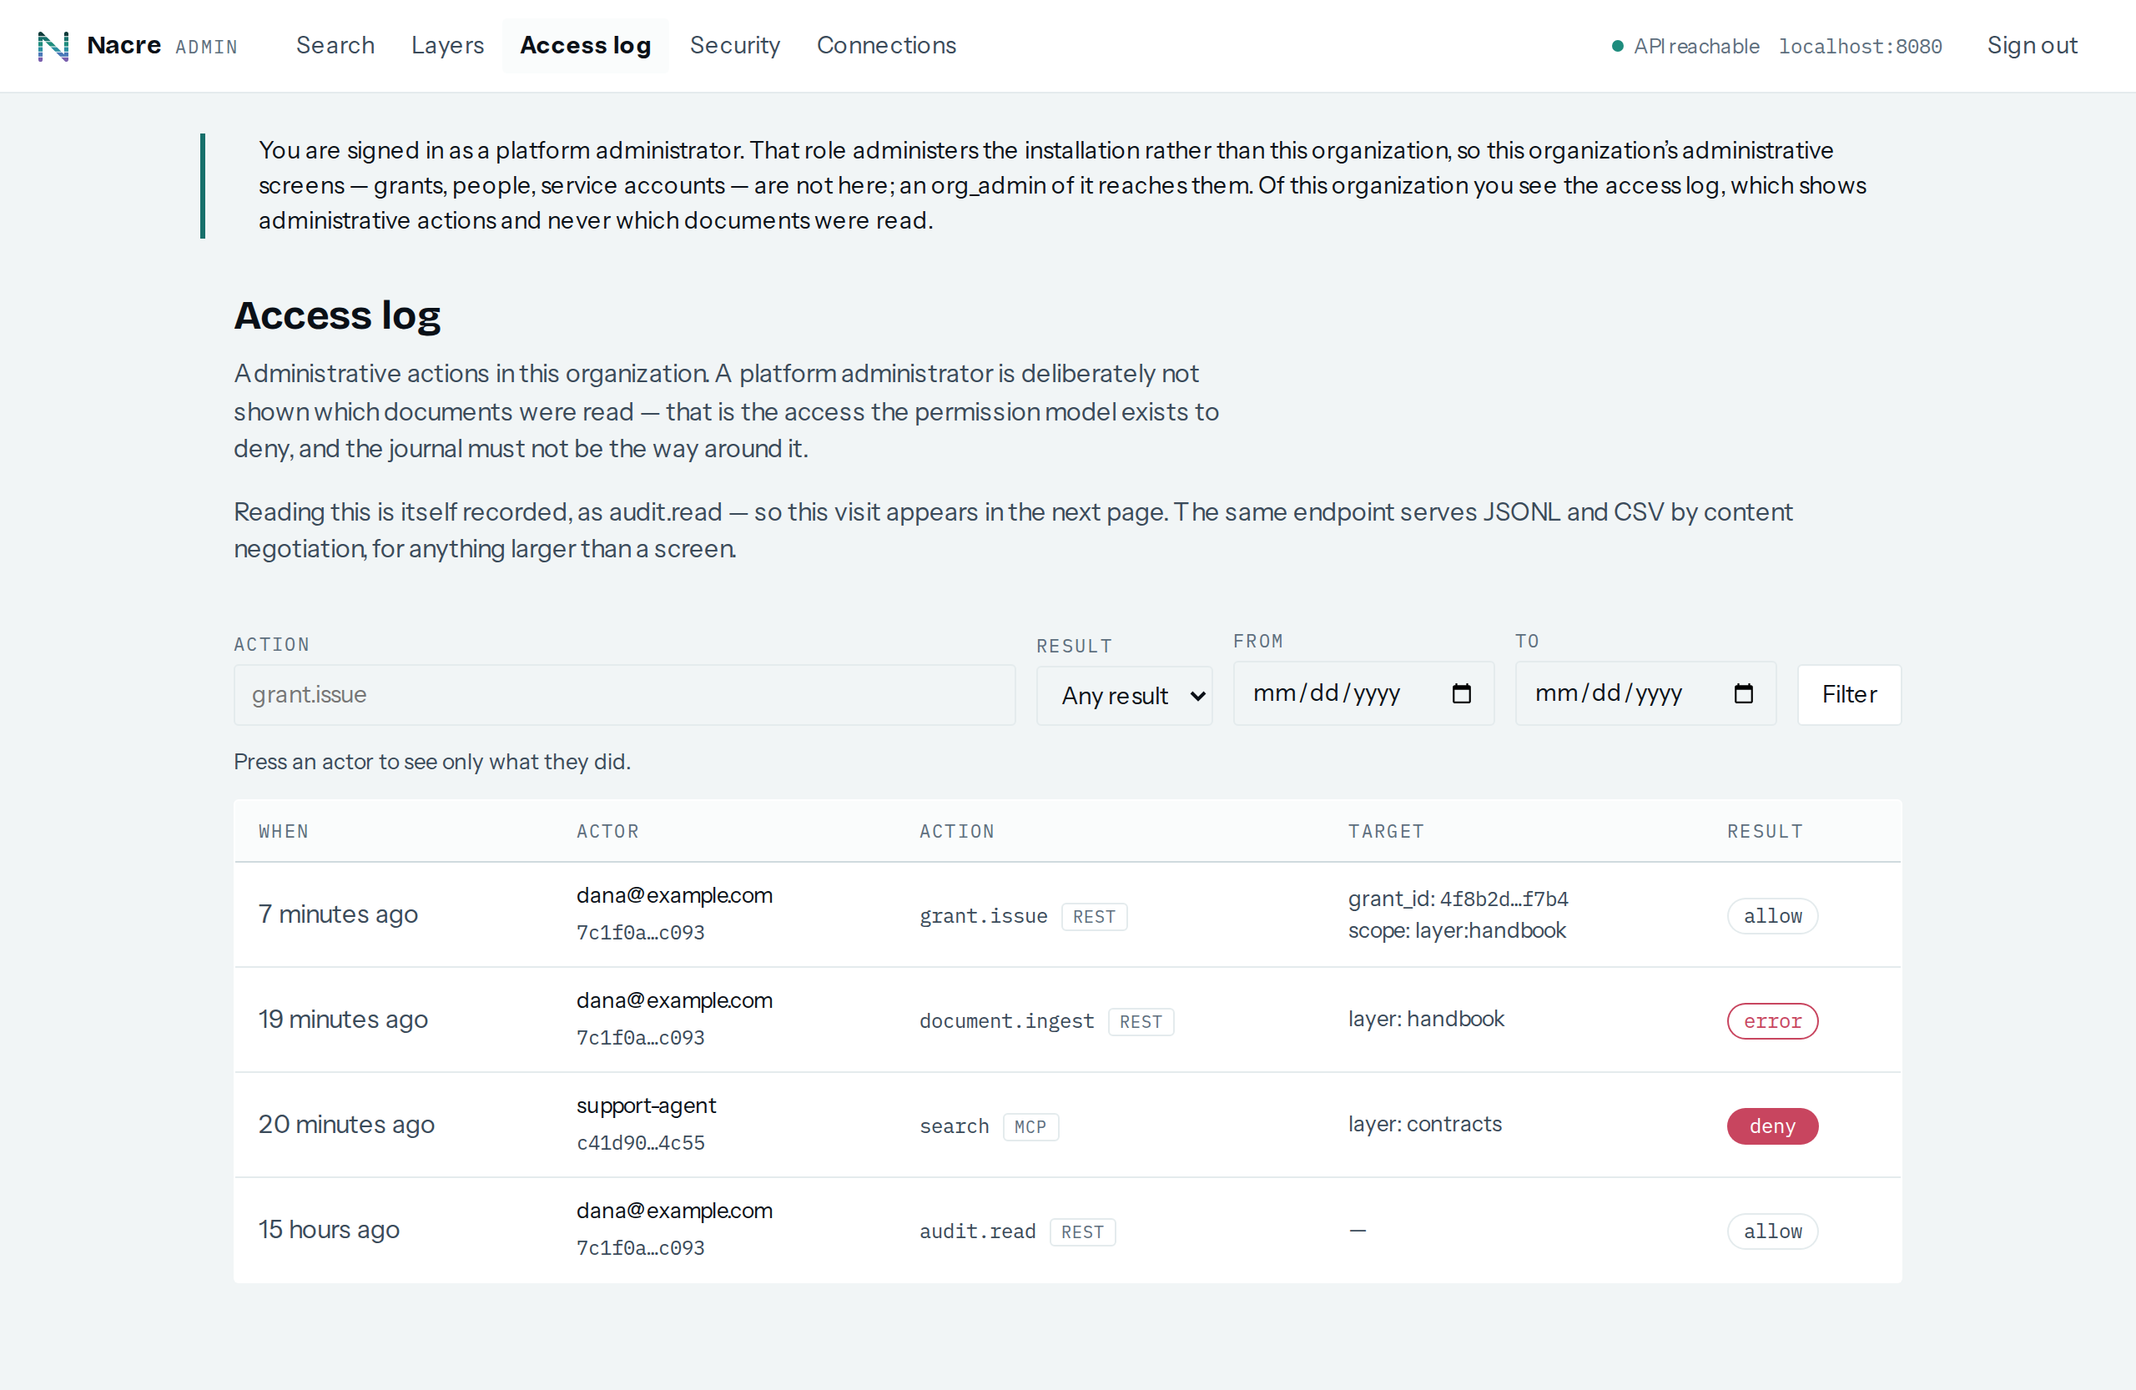
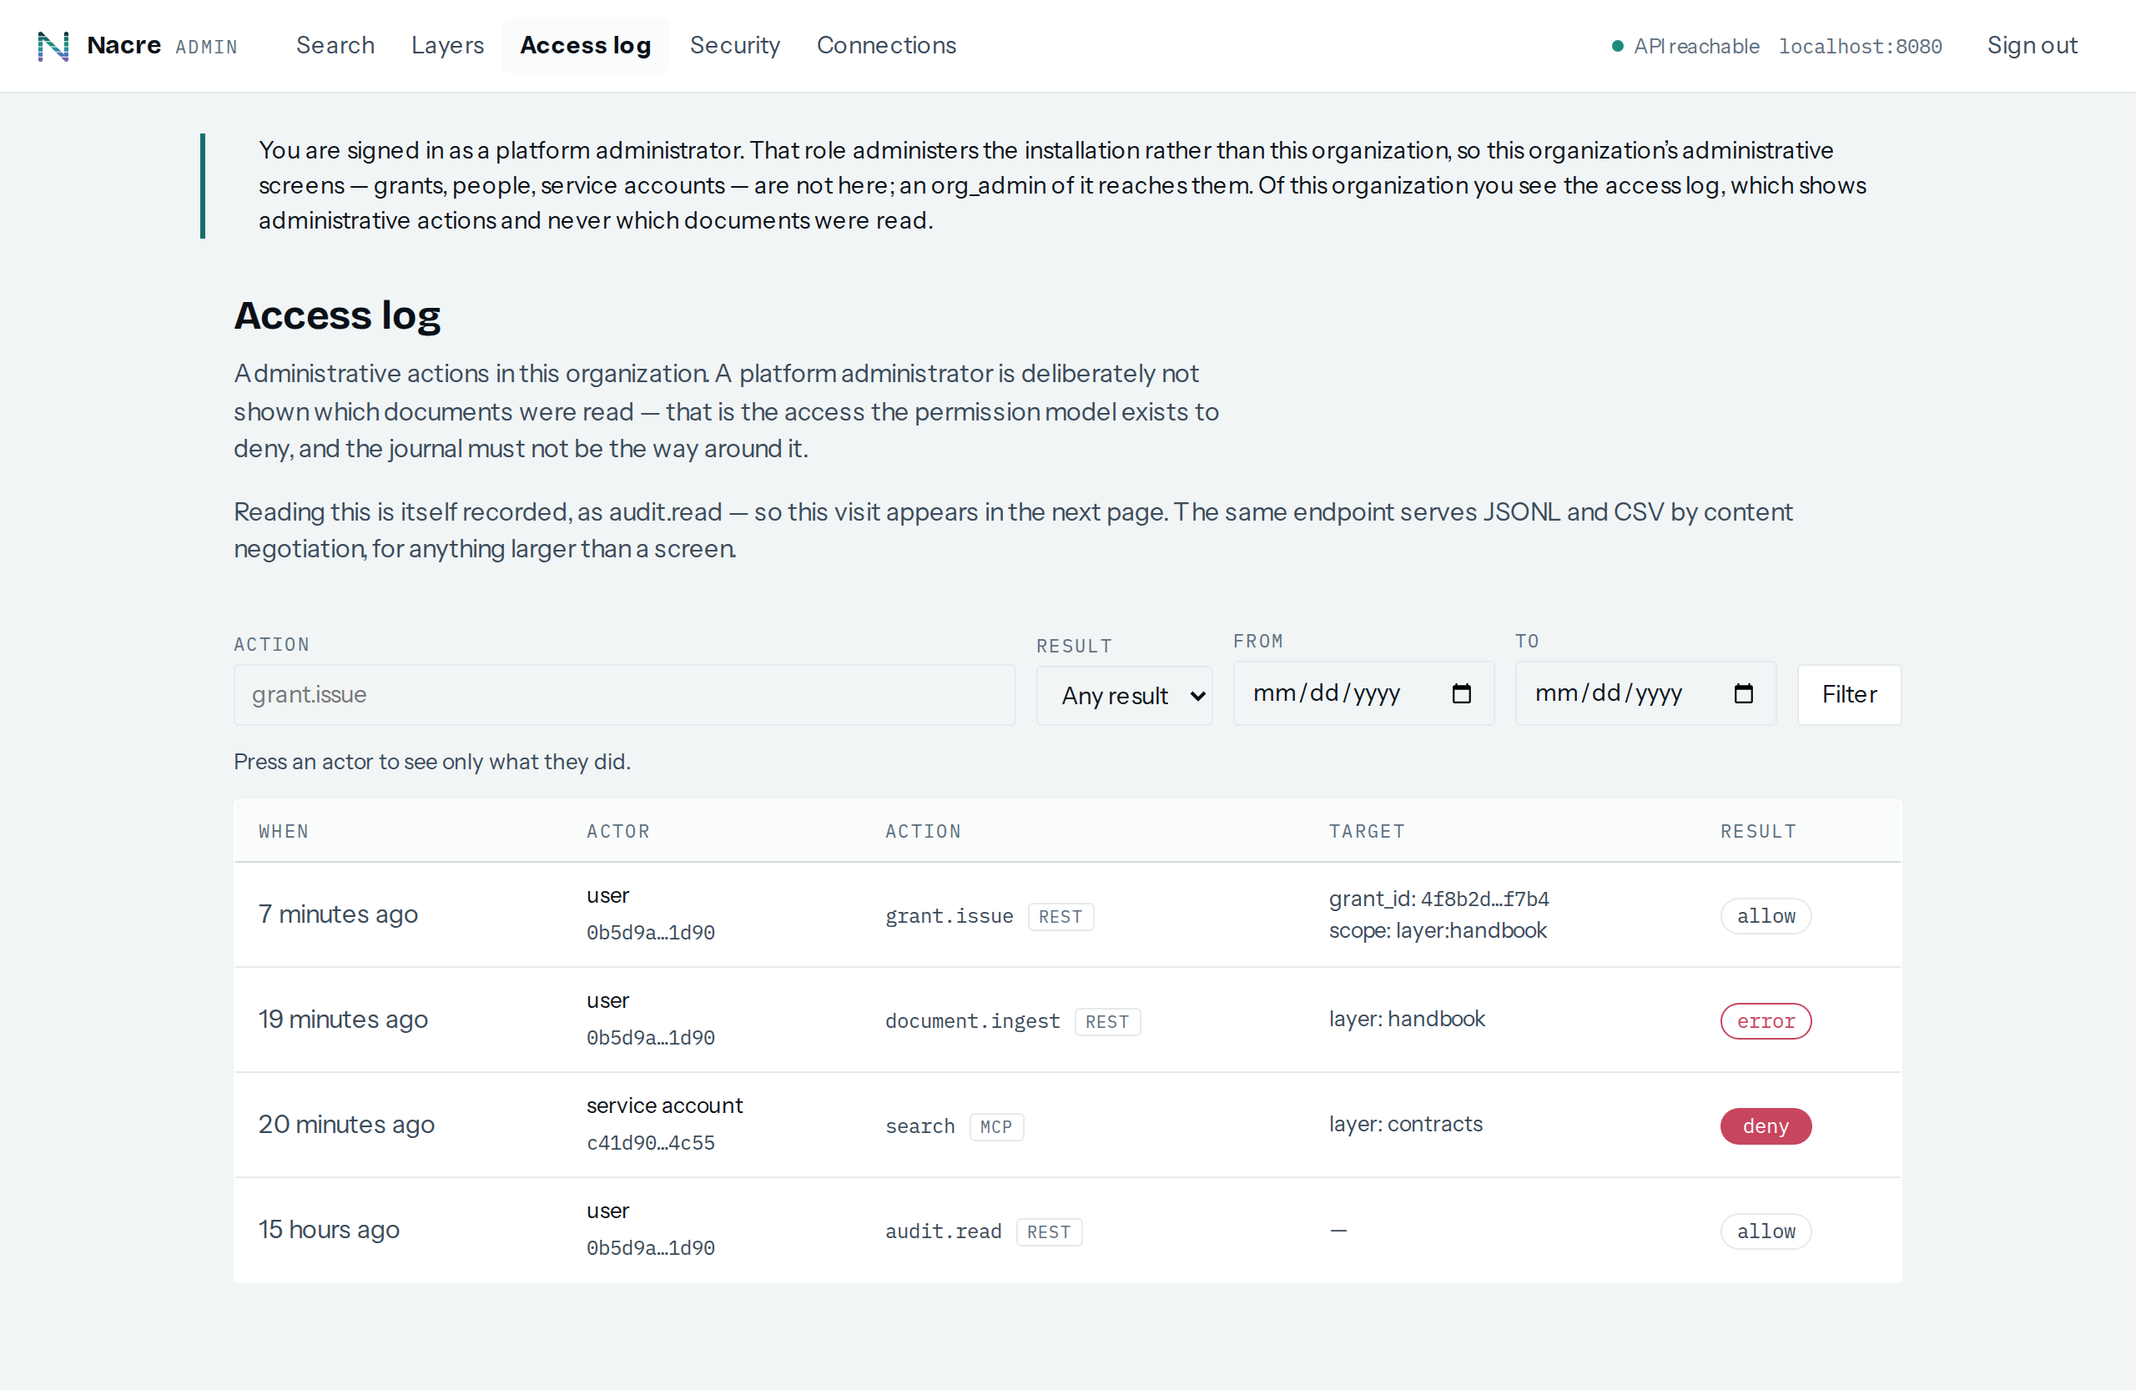
fix(admin): the access log names the actor instead of printing its id twice
Reported from the running stand: the Actor cell read
`user:172f5522-4f4d-4782-bf03-a3b21313a805` above `172f55…a805` — the same
value in two spellings, where a person expects an address.

`actor.label` looks like the answer and is not. Every writer of an event builds
it as `${type}:${id}` — checked at each call site, not assumed — so it carries
nothing the `type` and `id` beside it do not already say, and the console
rendered it as the primary line. The id is resolved to an email or a service
account's name now, and where it cannot be (a deleted account, or a
`platform_admin`, whom `GET /v1/users` refuses) the fallback is the actor's
kind as a word. Never the stored label: falling back to it puts the uuid back
exactly where the name was missing.

The fixture is the defect rather than a detail of it. It said
`label: 'dana@example.com'` — a value no server sends — and its actor ids
matched no row in the users listing beside it, so the committed picture showed
a resolved name while every deployment showed hex. It carries what the server
actually writes now, and ids the listings actually contain.

The same untruth was one shot over: `audit-platform-admin` answered
`GET /v1/users` for a role the server refuses it to, so it photographed names
that role never sees. It refuses those three listings now, which is also the
only way the fallback appears in a picture at all.

`grants.ts` held the resolver privately and a second view needs it, so it is
[…]

diff --git a/packages/admin/src/views/audit.ts b/packages/admin/src/views/audit.ts
@@ -2,6 +2,7 @@ import type { AuditRecord, AuditQuery } from '@nacre.work/sdk'
 
 import { client, explain } from '../api.js'
 import { agoCell, clear, h, shortId } from '../dom.js'
+import { type Names, names } from '../names.js'
 
 /**
  * The access log.
@@ -72,6 +73,17 @@ import { agoCell, clear, h, shortId } from '../dom.js'
 
 /** Newest first, and one page is what a screen can hold. */
 const PAGE = 50
+
+/**
+ * An actor's kind, as a word rather than as a column value.
+ *
+ * This is what the Actor cell falls back to when the id resolves to nothing —
+ * a deleted account, or a caller the listing endpoints refuse. `service_account`
+ * is the only one whose stored spelling is not already a word, and the rest are
+ * passed through rather than being enumerated, so a principal type added later
+ * reads as itself instead of as `unknown`.
+ */
+const readableType = (type: string): string => type.replaceAll('_', ' ')
 
 /** Which fill each result gets. One control, one size, three treatments. */
 const FILL: Record<AuditRecord['result'], string> = {
@@ -185,13 +197,22 @@ export async function auditView(root: HTMLElement, isPlatformAdmin = false): Pro
  * Cursor paging rather than a page number, because that is what the endpoint
  * has — and it has it because a journal grows while you read it, so an offset
  * would skip a record between one page and the next.
+ *
+ * The names are asked for beside the page rather than after it: they are what
+ * the Actor column reads, so serialising the two would show a table of uuids
+ * that then rewrote itself. `names` refuses nothing — every list it asks for is
+ * settled separately — so a `platform_admin`, whom `GET /v1/users` does not
+ * answer, gets an empty map and every actor falls back to its kind.
  */
 async function load(body: HTMLElement, query: AuditQuery, onActor: (id: string) => void): Promise<void> {
   clear(body)
   body.append(h('p', { class: 'muted' }, 'Loading…'))
 
   try {
-    const page = await client().audit.read({ ...query, limit: PAGE })
+    const [page, resolved] = await Promise.all([
+      client().audit.read({ ...query, limit: PAGE }),
+      names(),
+    ])
     clear(body)
     if (page.items.length === 0) {
       body.append(empty(query))
@@ -212,7 +233,7 @@ async function load(body: HTMLElement, query: AuditQuery, onActor: (id: string) 
       rows,
     )
     body.append(table)
-    for (const record of page.items) rows.append(row(record, onActor))
+    for (const record of page.items) rows.append(row(record, resolved, onActor))
 
     let cursor = page.nextCursor
     if (cursor === undefined) return
@@ -223,7 +244,7 @@ async function load(body: HTMLElement, query: AuditQuery, onActor: (id: string) 
         more.textContent = 'Loading…'
         try {
           const next = await client().audit.read({ ...query, limit: PAGE, cursor: cursor as string })
-          for (const record of next.items) rows.append(row(record, onActor))
+          for (const record of next.items) rows.append(row(record, resolved, onActor))
           cursor = next.nextCursor
           if (cursor === undefined) more.remove()
           else {
@@ -259,6 +280,21 @@ const empty = (query: AuditQuery) =>
  * not help them. A uuid is shortened the way every other id on these screens
  * is; anything else is printed whole.
  *
+ * ## The actor is named, and `actor.label` is deliberately not what names it
+ *
+ * That field looks like the answer and is not: every writer of an event builds
+ * it as `` `${type}:${id}` ``, so it carries nothing the `type` and `id` beside
+ * it do not already say. Rendering it put a whole uuid above a shortened one —
+ * two spellings of the same value, and no name — which is what a running stand
+ * showed while this screen's own picture looked fine, because the fixture had
+ * been written with an email in that field and no server sends one.
+ *
+ * So the id is resolved the way the Grants screen resolves a principal, and
+ * where it cannot be — a deleted account, or a caller whom `GET /v1/users`
+ * refuses — the fallback is the actor's *kind* as a word. Never the stored
+ * label: falling back to it would put the uuid back exactly where a name was
+ * missing, which is the case this exists for.
+ *
  * The result is one control at one size, and only the fill differs. It shipped
  * as three sizes — `allow` at the table's 15px sans, `deny` at the chip's 12px
  * mono, `error` at `.tag`'s 10px uppercase — which a reader going down the
@@ -281,7 +317,7 @@ const empty = (query: AuditQuery) =>
  * edge reads as the values meaning different amounts of something, when what
  * differs is how many letters they happen to have.
  */
-function row(record: AuditRecord, onActor: (id: string) => void): HTMLElement {
+function row(record: AuditRecord, resolved: Names, onActor: (id: string) => void): HTMLElement {
   const target = Object.entries(record.target)
   // `agoCell` rather than a `<td>` built here: `lint:admin-layout` asks that of
   // every view, because "204 days ago" is three words and one value and a table
@@ -294,9 +330,9 @@ function row(record: AuditRecord, onActor: (id: string) => void): HTMLElement {
     when,
     h('td', {},
       actorId === null
-        ? h('div', { class: 'named' }, record.actor.type)
+        ? h('div', { class: 'named' }, readableType(record.actor.type))
         : h('button', { class: 'filterlink', title: 'Show only this actor', onclick: () => { onActor(actorId) } },
-            h('div', { class: 'named' }, record.actor.label ?? record.actor.type),
+            h('div', { class: 'named' }, resolved.get(actorId) ?? readableType(record.actor.type)),
             shortId(actorId),
           ),
     ),

diff --git a/packages/admin/src/views/grants.ts b/packages/admin/src/views/grants.ts
@@ -1,7 +1,8 @@
 import type { Grant, Group, Layer, ServiceAccount, User, Workspace } from '@nacre.work/sdk'
 
 import { client, explain } from '../api.js'
-import { chip, clear, h, shortId } from '../dom.js'
+import { chip, clear, h } from '../dom.js'
+import { type Names, named, names } from '../names.js'
 import { picker } from '../pick.js'
 
 /**
@@ -19,69 +20,6 @@ import { picker } from '../pick.js'
  */
 
 const PERMISSIONS = ['read', 'write', 'admin'] as const
-
-/**
- * What each id is called, so the table reads as sentences rather than as hex.
- *
- * Every row here used to be `USER 22b7d5…679f` on `LAYER 5daa62…4bc3`, which is
- * a screen you cannot check your own work on: the one question it exists to
- * answer — who may reach what — needs both halves named, and a truncated uuid
- * names nothing. Reported from a running console, where three grants differed
- * only in the middle of a hash.
- *
- * ## It degrades rather than fails
- *
- * Listing users and groups is `org_admin`, and `admin` on a scope is not — the
- * picker below already carries that argument. So a caller who may legitimately
- * issue and revoke grants may be refused every one of these lists, and a
- * resolver that treated the refusal as an error would take the whole screen
- * away over decoration. Each list is asked separately, a refusal leaves that
- * kind unresolved, and an unresolved id renders exactly as it did before.
- *
- * ## Documents keep their id, and that is not laziness
- *
- * There is no list of documents to load — and by rule 6 a caller may hold
- * `admin` on a layer, be entitled to grant on a document inside it, and not be
- * permitted to read that document. Asking for its title one row at a time would
- * be a screen that answers `404` for reasons a visitor would read as a bug.
- */
-type Names = ReadonlyMap<string, string>
-
-async function names(): Promise<Names> {
-  const found = new Map<string, string>()
-  // Separately, so one refusal costs one kind rather than all five. `allSettled`
-  // and not `all` for the same reason.
-  await Promise.allSettled([
-    client().users.list().then((rows: readonly User[]) => {
-      for (const u of rows) found.set(u.id, u.disabledAt === null ? u.email : `${u.email} (disabled)`)
-    }),
-    client().groups.list().then((rows: readonly Group[]) => {
-      for (const g of rows) found.set(g.id, g.name)
-    }),
-    client().serviceAccounts.list().then((rows: readonly ServiceAccount[]) => {
-      for (const a of rows) found.set(a.id, a.name)
-    }),
-    client().layers.list().then((rows: readonly Layer[]) => {
-      for (const l of rows) found.set(l.id, l.slug)
-    }),
-    client().workspaces.list().then((rows: readonly Workspace[]) => {
-      for (const w of rows) found.set(w.id, w.slug)
-    }),
-  ])
-  return found
-}
-
-/**
- * The name where there is one, the short id where there is not.
- *
- * The id stays reachable either way: it is the `title`, which is what the rest
- * of these screens do, and it is what another screen asks for when somebody
- * carries a grant somewhere else.
- */
-function named(names: Names, id: string): HTMLElement {
-  const label = names.get(id)
-  return label === undefined ? shortId(id) : h('span', { class: 'named', title: id }, label)
-}
 
 export async function grantsView(root: HTMLElement): Promise<void> {
   clear(root)

diff --git a/packages/admin/src/names.ts b/packages/admin/src/names.ts
@@ -1,0 +1,75 @@
+import type { Group, Layer, ServiceAccount, User, Workspace } from '@nacre.work/sdk'
+
+import { client } from './api.js'
+import { h, shortId } from './dom.js'
+
+/**
+ * What each id is called, so a table reads as sentences rather than as hex.
+ *
+ * Every row here used to be `USER 22b7d5…679f` on `LAYER 5daa62…4bc3`, which is
+ * a screen you cannot check your own work on: the one question it exists to
+ * answer — who may reach what — needs both halves named, and a truncated uuid
+ * names nothing. Reported from a running console, where three grants differed
+ * only in the middle of a hash.
+ *
+ * ## It degrades rather than fails
+ *
+ * Listing users and groups is `org_admin`, and `admin` on a scope is not — the
+ * Grants screen's picker carries that argument too. So a caller who may legitimately
+ * issue and revoke grants may be refused every one of these lists, and a
+ * resolver that treated the refusal as an error would take the whole screen
+ * away over decoration. Each list is asked separately, a refusal leaves that
+ * kind unresolved, and an unresolved id renders exactly as it did before.
+ *
+ * ## Documents keep their id, and that is not laziness
+ *
+ * There is no list of documents to load — and by rule 6 a caller may hold
+ * `admin` on a layer, be entitled to grant on a document inside it, and not be
+ * permitted to read that document. Asking for its title one row at a time would
+ * be a screen that answers `404` for reasons a visitor would read as a bug.
+ *
+ * ## Two views ask it now, so it lives here
+ *
+ * The access log needs the same answer for the same reason, and a second copy
+ * of a resolver is two chances to disagree about what a disabled account is
+ * called — the shape this repository closes with a check when it cannot close
+ * it with a module. This is a module, so it is one.
+ */
+export type Names = ReadonlyMap<string, string>
+
+export async function names(): Promise<Names> {
+  const found = new Map<string, string>()
+  // Separately, so one refusal costs one kind rather than all five. `allSettled`
+  // and not `all` for the same reason.
+  await Promise.allSettled([
+    client().users.list().then((rows: readonly User[]) => {
+      for (const u of rows) found.set(u.id, u.disabledAt === null ? u.email : `${u.email} (disabled)`)
+    }),
+    client().groups.list().then((rows: readonly Group[]) => {
+      for (const g of rows) found.set(g.id, g.name)
+    }),
+    client().serviceAccounts.list().then((rows: readonly ServiceAccount[]) => {
+      for (const a of rows) found.set(a.id, a.name)
+    }),
+    client().layers.list().then((rows: readonly Layer[]) => {
+      for (const l of rows) found.set(l.id, l.slug)
+    }),
+    client().workspaces.list().then((rows: readonly Workspace[]) => {
+      for (const w of rows) found.set(w.id, w.slug)
+    }),
+  ])
+  return found
+}
+
+/**
+ * The name where there is one, the short id where there is not.
+ *
+ * The id stays reachable either way: it is the `title`, which is what the rest
+ * of these screens do, and it is what another screen asks for when somebody
+ * carries a grant somewhere else.
+ */
+export function named(names: Names, id: string): HTMLElement {
+  const label = names.get(id)
+  return label === undefined ? shortId(id) : h('span', { class: 'named', title: id }, label)
+}
+

diff --git a/CLAUDE.md b/CLAUDE.md
@@ -2249,6 +2249,38 @@ nothing to disagree about — the missing-`error`-row gap again, one screen over
 and found the same way: by widening the fixture and watching the check go red
 before the rule was written.
 
+**And the Actor column showed a uuid twice and no name.** Reported from the
+running stand with the cell circled: `user:172f5522-4f4d-4782-bf03-a3b21313a805`
+on one line and `172f55…a805` on the next — the same value in two spellings,
+where a person expects an address.
+
+`actor.label` looks like the answer and is not. **Every** writer of an event
+builds it as `` `${type}:${id}` `` — checked at each call site rather than
+assumed — so that column carries nothing the `type` and `id` beside it do not
+already say, and the console was rendering it as the primary line. So the id is
+resolved to an email or a service account's name, and where it cannot be — a
+deleted account, or a `platform_admin`, whom `GET /v1/users` refuses — the
+fallback is the actor's *kind* as a word. Deliberately never the stored label:
+falling back to it puts the uuid back exactly where the name was missing, which
+is the case this exists for.
+
+**The fixture is the defect rather than a detail of it.** It said
+`label: 'dana@example.com'`, a value no server sends, and its actor ids matched
+no row in the users listing beside it — so the committed picture showed a
+resolved name while every deployment showed hex. That is the
+fixture-written-to-match-the-code shape this file names three times, and it
+survived a change whose whole subject was that column. It carries what the
+server actually writes now, and ids the listings actually contain.
+
+The same untruth was one shot over: `audit-platform-admin` answered
+`GET /v1/users` for a role the server refuses it to, so it photographed names
+that role never sees. It refuses those three listings now, which is also the
+only way the fallback is in a picture at all.
+
+`grants.ts` had the resolver privately and a second view needed it, so it is
+`packages/admin/src/names.ts` — a module rather than a copy, because two
+resolvers are two chances to disagree about what a disabled account is called.
+
 Three shots, because two of the three states are the argument: the log, the log
 narrowed by a press, and the administrative-only log a platform administrator
 gets. The middle one is what says the interaction works, which a picture of the
